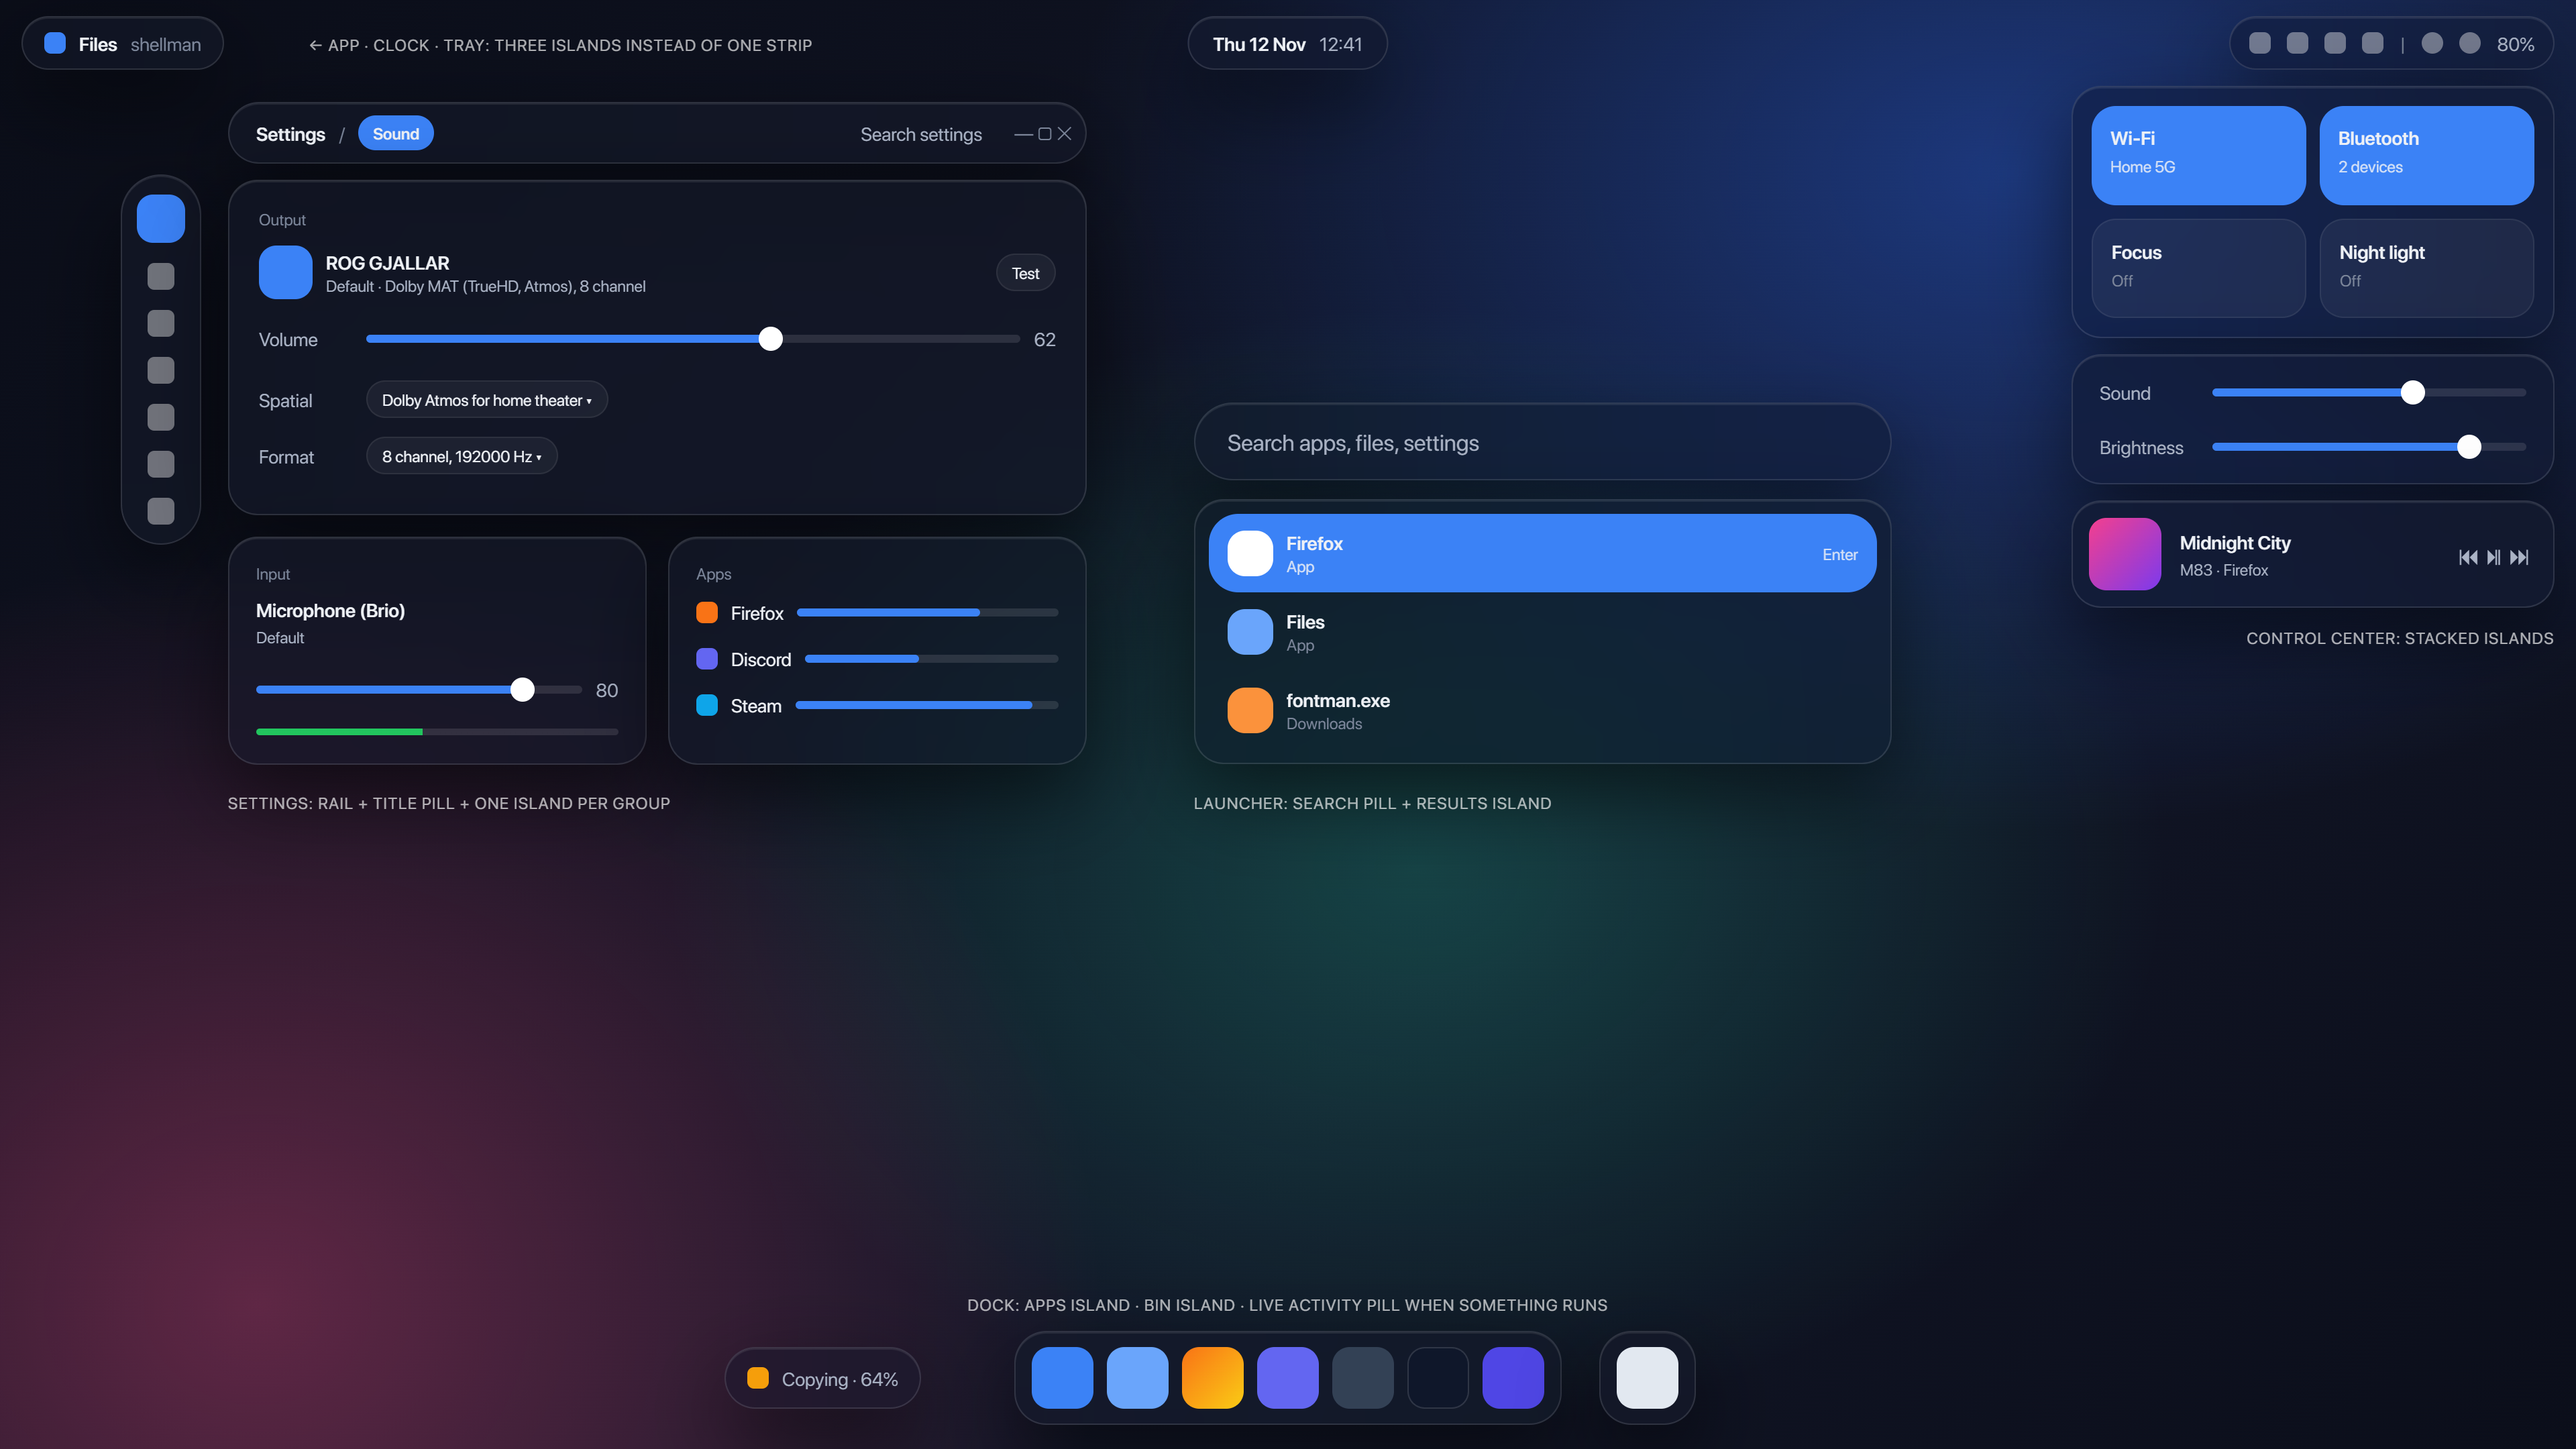
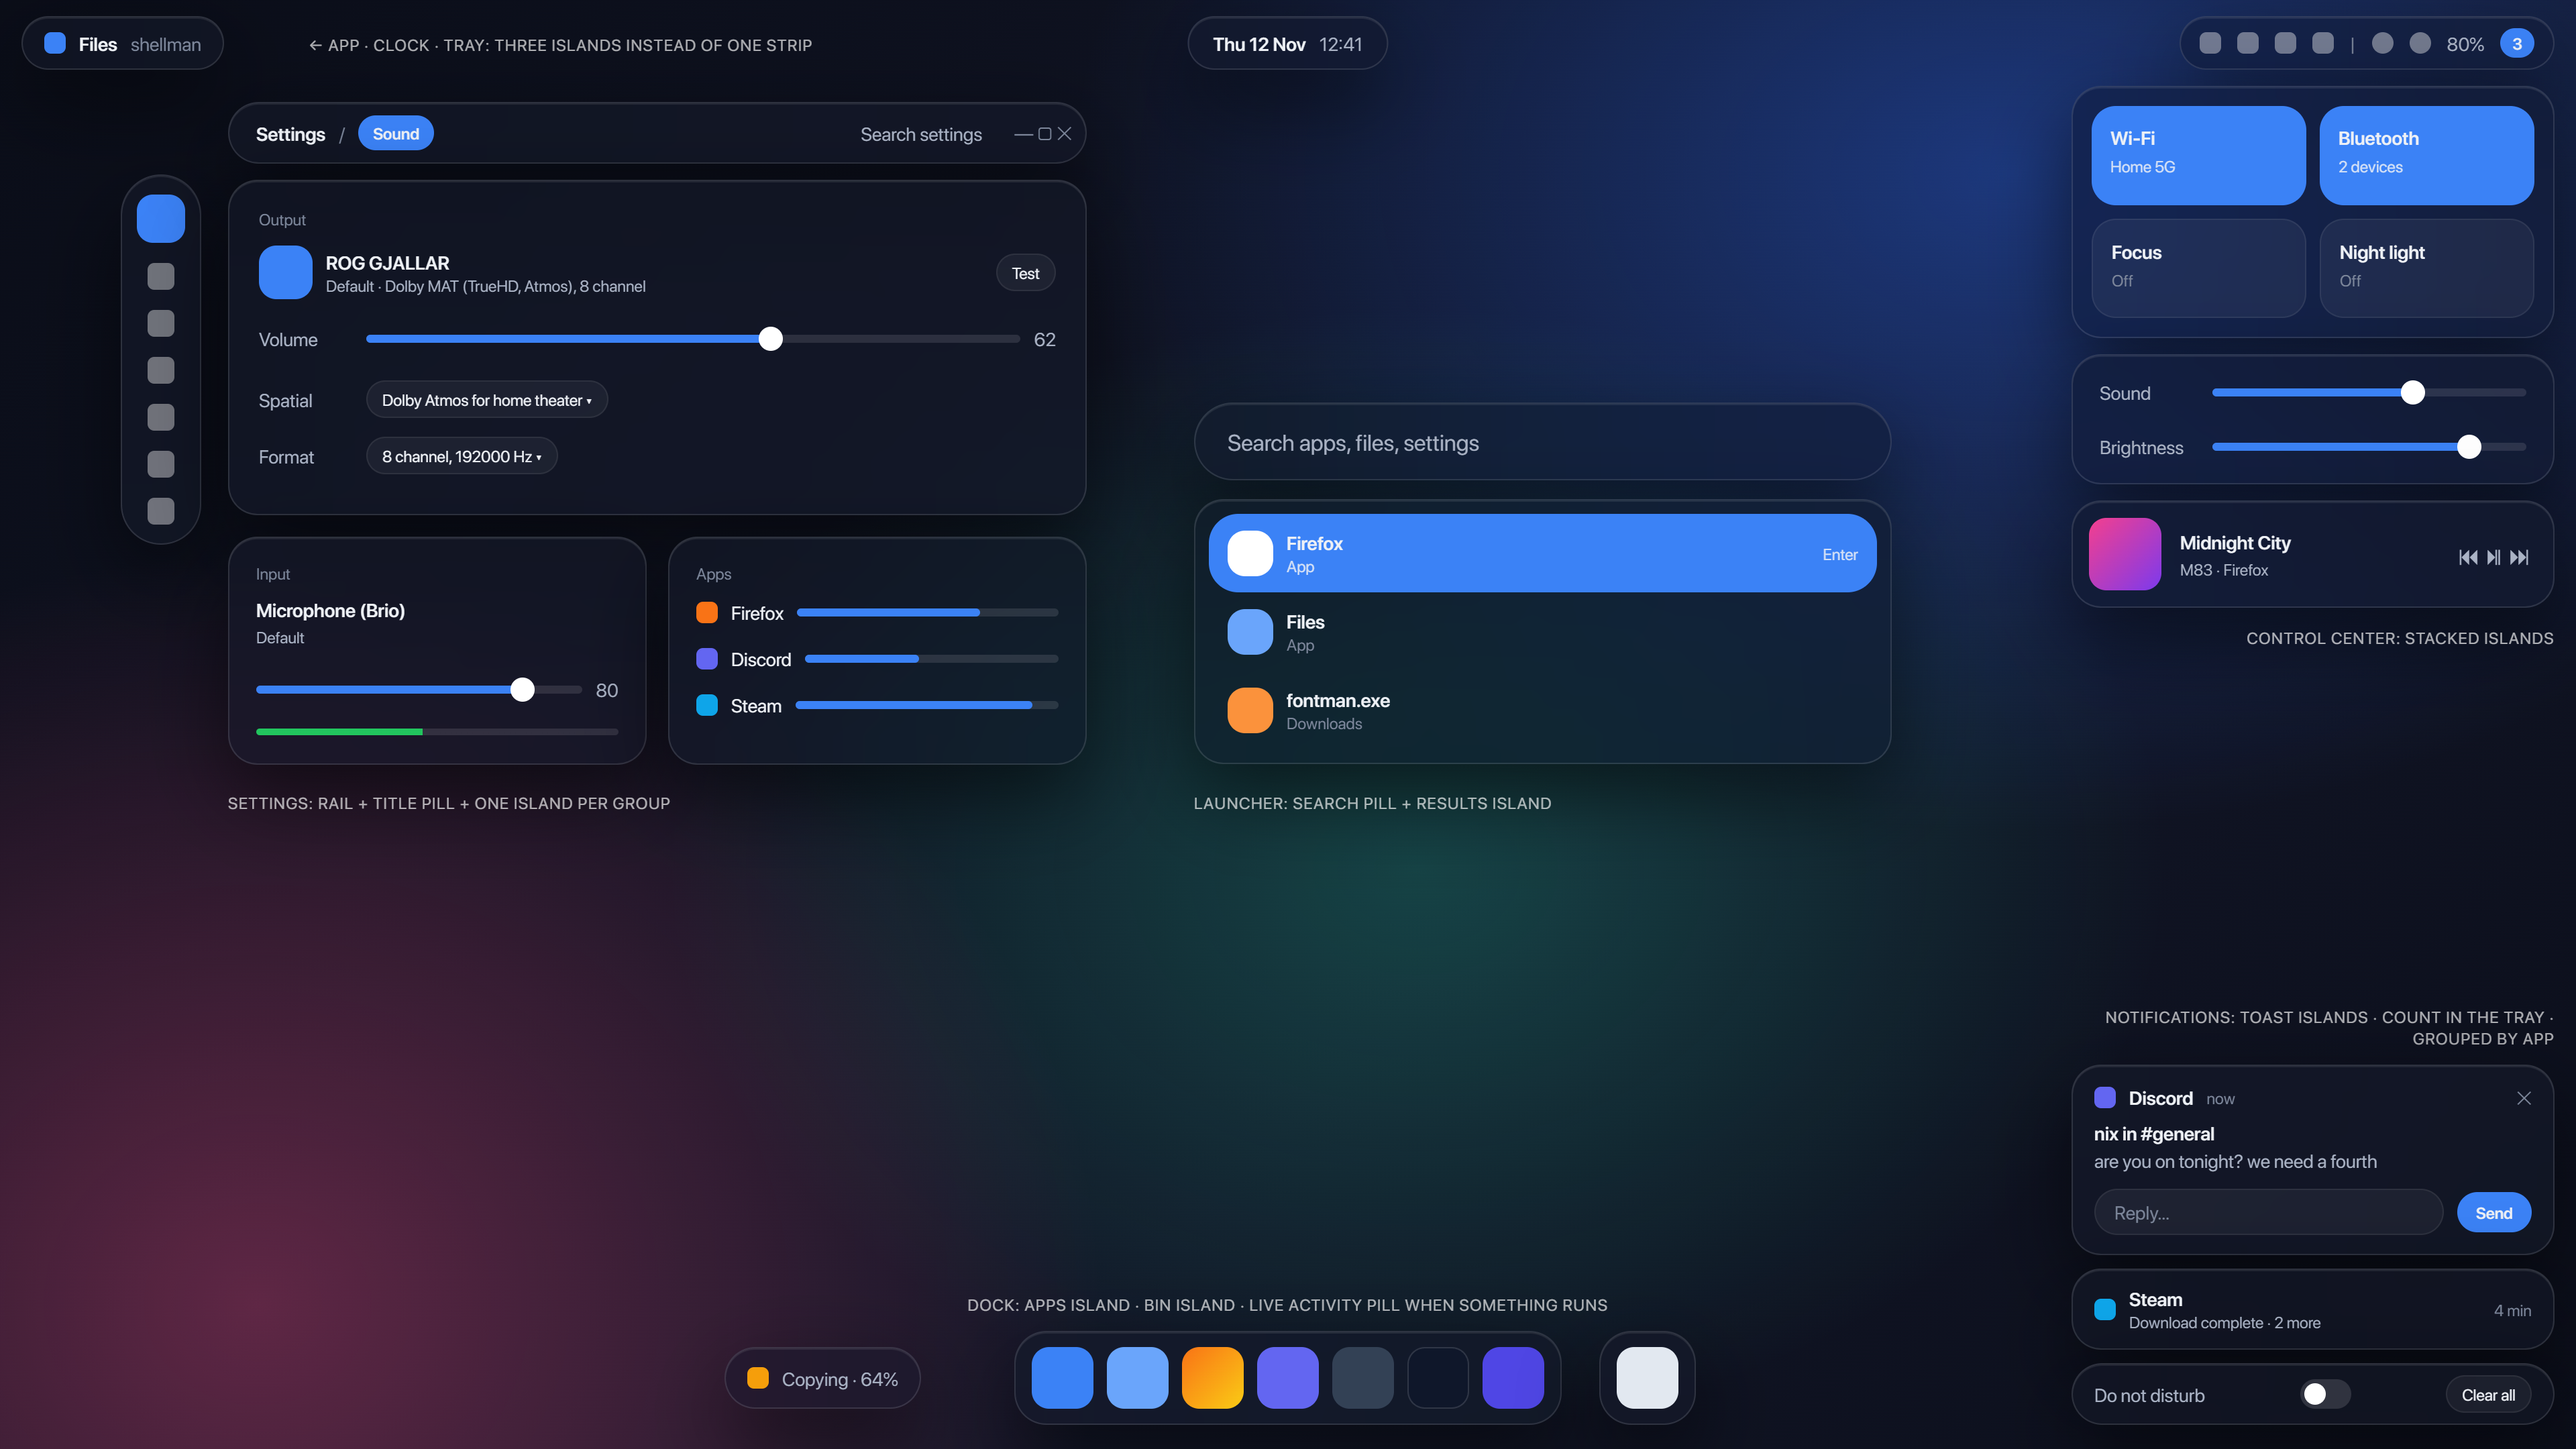
design: notifications in the Islands mockup

diff --git a/docs/design/system.html b/docs/design/system.html
@@ -23,7 +23,7 @@ body{font:14px "Segoe UI Variable Text","Segoe UI",sans-serif;color:#eef1f6;back
  <!-- top bar as three islands -->
  <div class="glass pill row" style="left:16px;top:12px;height:40px;padding:0 16px"><span class="ic" style="background:#3b82f6"></span><span class="b">Files</span><span class="dim">shellman</span></div>
  <div class="glass pill row" style="left:50%;transform:translateX(-50%);top:12px;height:40px;padding:0 18px"><span class="b">Thu 12 Nov</span><span class="mut">12:41</span></div>
- <div class="glass pill row" style="right:16px;top:12px;height:40px;padding:0 14px;gap:12px"><span class="ic"></span><span class="ic"></span><span class="ic"></span><span class="ic"></span><span class="dim">|</span><span class="ic" style="border-radius:50%"></span><span class="ic" style="border-radius:50%"></span><span class="mut">80%</span></div>
+ <div class="glass pill row" style="right:16px;top:12px;height:40px;padding:0 14px;gap:12px"><span class="ic"></span><span class="ic"></span><span class="ic"></span><span class="ic"></span><span class="dim">|</span><span class="ic" style="border-radius:50%"></span><span class="ic" style="border-radius:50%"></span><span class="mut">80%</span><span class="chip acc b" style="padding:3px 9px">3</span></div>
  <div class="note" style="left:230px;top:25px">← app · clock · tray: three islands instead of one strip</div>
 
  <!-- settings as islands -->
@@ -64,6 +64,16 @@ body{font:14px "Segoe UI Variable Text","Segoe UI",sans-serif;color:#eef1f6;back
   <div class="glass r" style="position:relative;margin-top:12px;padding:18px 20px"><div class="row"><span class="mut" style="width:74px">Sound</span><div class="sl"><i style="width:62%"></i><b style="left:60%"></b></div></div><div class="row" style="margin-top:22px"><span class="mut" style="width:74px">Brightness</span><div class="sl"><i style="width:80%"></i><b style="left:78%"></b></div></div></div>
   <div class="glass r row" style="position:relative;margin-top:12px;padding:12px;gap:14px"><div class="app" style="background:linear-gradient(135deg,#f43f8e,#7c3aed);width:54px;height:54px"></div><div><div class="b">Midnight City</div><div class="mut" style="font-size:12px;margin-top:3px">M83 · Firefox</div></div><span style="flex:1"></span><span class="mut" style="font-size:18px;letter-spacing:6px">⏮⏯⏭</span></div>
   <div class="note" style="position:relative;margin-top:14px;text-align:right">Control Center: stacked islands</div></div>
+
+ <!-- notifications: toasts as islands, bottom right; the count sits in the tray island -->
+ <div style="position:absolute;right:16px;bottom:18px;width:360px">
+  <div class="note" style="position:relative;text-align:right;margin-bottom:12px">Notifications: toast islands · count in the tray · grouped by app</div>
+  <div class="glass r" style="position:relative;padding:14px 16px"><div class="row"><span class="ic" style="background:#6366f1"></span><span class="b">Discord</span><span class="dim" style="font-size:12px">now</span><span style="flex:1"></span><span class="dim">✕</span></div>
+   <div class="b" style="margin-top:8px">nix in #general</div><div class="mut" style="margin-top:2px">are you on tonight? we need a fourth</div>
+   <div class="row" style="margin-top:12px"><span class="soft pill" style="flex:1;padding:7px 14px;color:#7d879b">Reply…</span><span class="chip acc b" style="padding:7px 14px">Send</span></div></div>
+  <div class="glass r row" style="position:relative;margin-top:10px;padding:12px 16px"><span class="ic" style="background:#0ea5e9"></span><div><div class="b">Steam</div><div class="mut" style="font-size:12px">Download complete · 2 more</div></div><span style="flex:1"></span><span class="dim" style="font-size:12px">4 min</span></div>
+  <div class="glass pill row" style="position:relative;margin-top:10px;padding:8px 16px;justify-content:space-between"><span class="mut">Do not disturb</span><div class="sw off"></div><span class="chip soft">Clear all</span></div>
+ </div>
 
  <!-- dock: apps island + running/bin island -->
  <div class="glass row" style="left:50%;transform:translateX(-50%);bottom:18px;height:70px;border-radius:24px;padding:0 12px;gap:10px">
